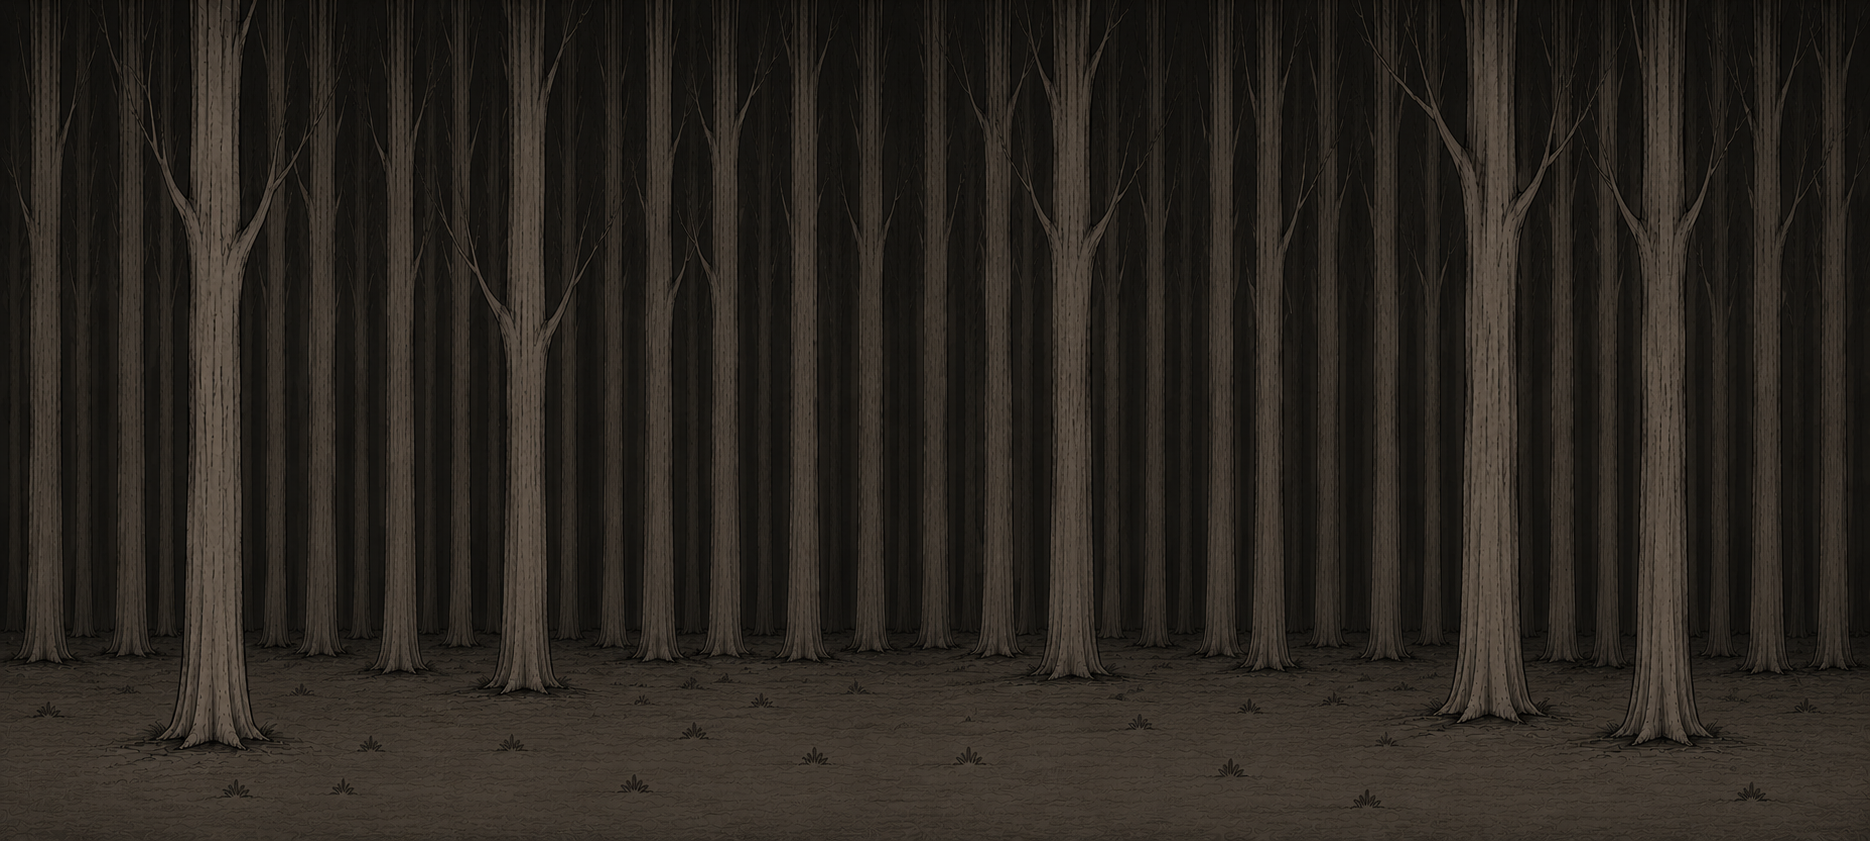
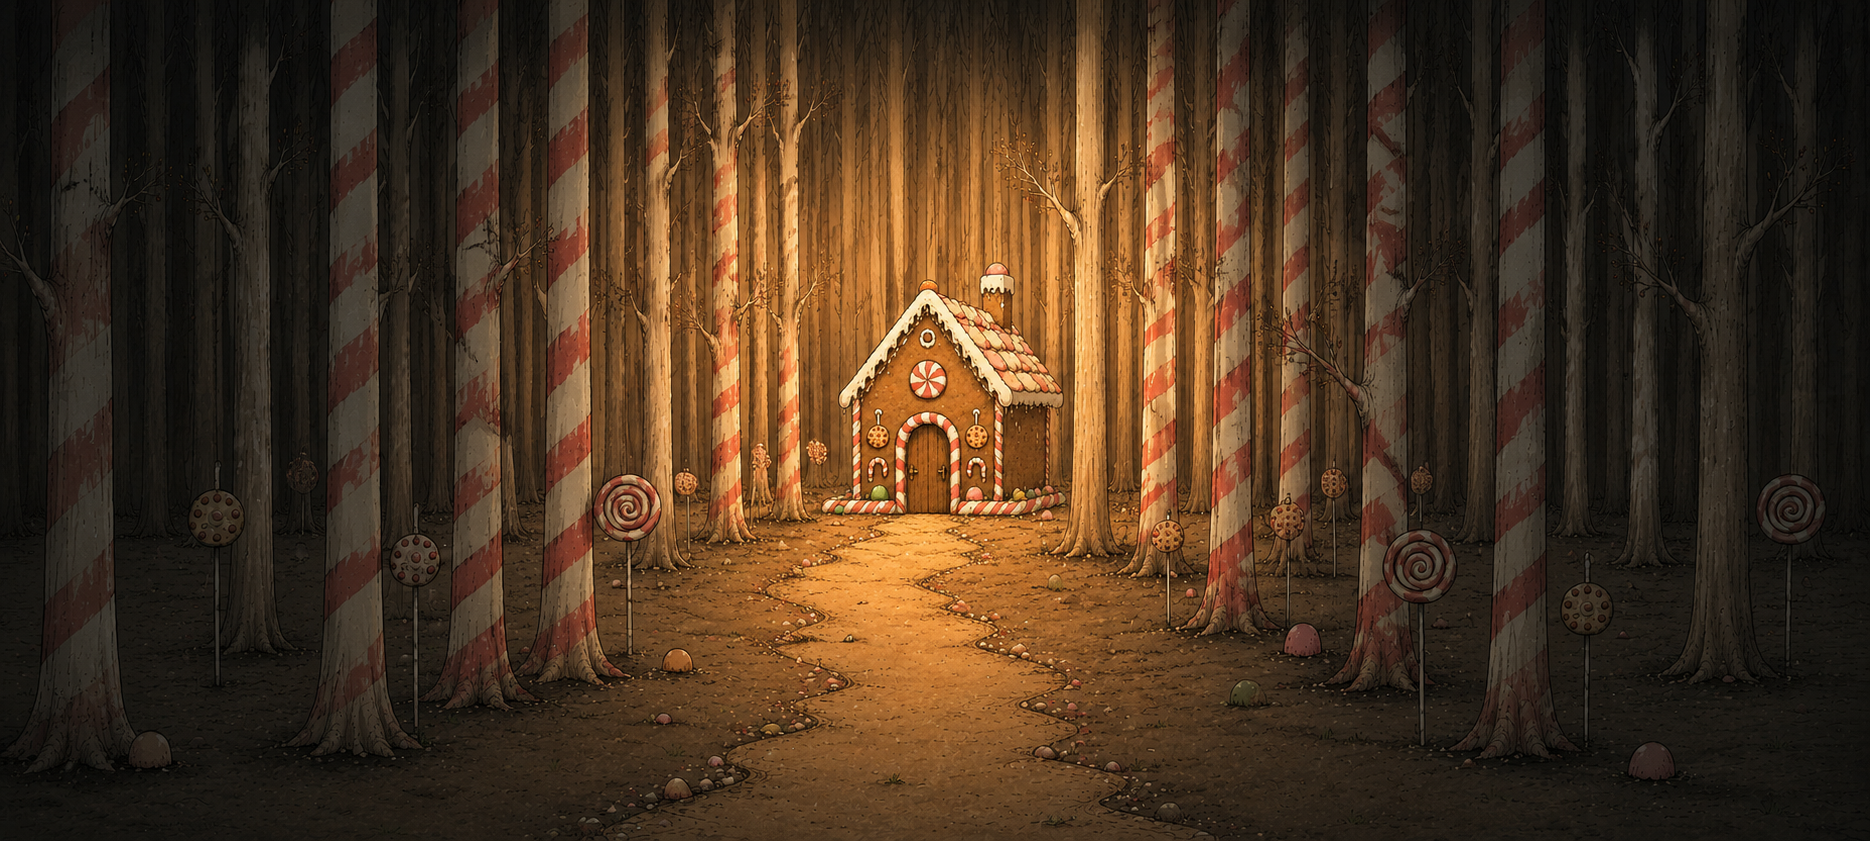
feat: 繼續改背景

diff --git a/app/description/page.tsx b/app/description/page.tsx
@@ -112,6 +112,22 @@ export default function Description() {
 
   return (
     <div className="w-full h-screen bg-black flex flex-col items-center relative overflow-hidden px-8">
+      {/* 背景圖  */}
+      <div
+        className="
+          absolute inset-0
+          bg-[url('/images/bg_description.png')]
+          bg-center
+          bg-no-repeat
+        "
+        style={{
+          backgroundSize: "auto 100%",
+        }}
+      />
+
+      {/* 遮罩（可留可刪） */}
+      <div className="absolute inset-0 bg-black/20" />
+
 
       <div className="flex-38" />
 